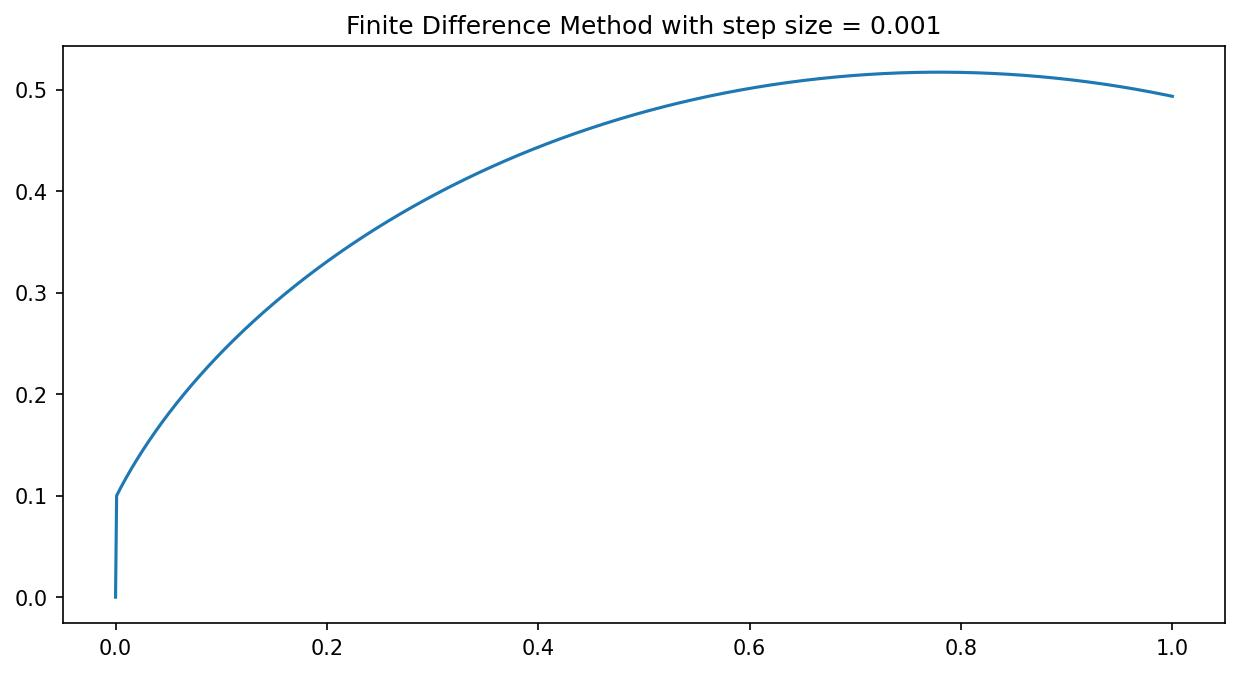
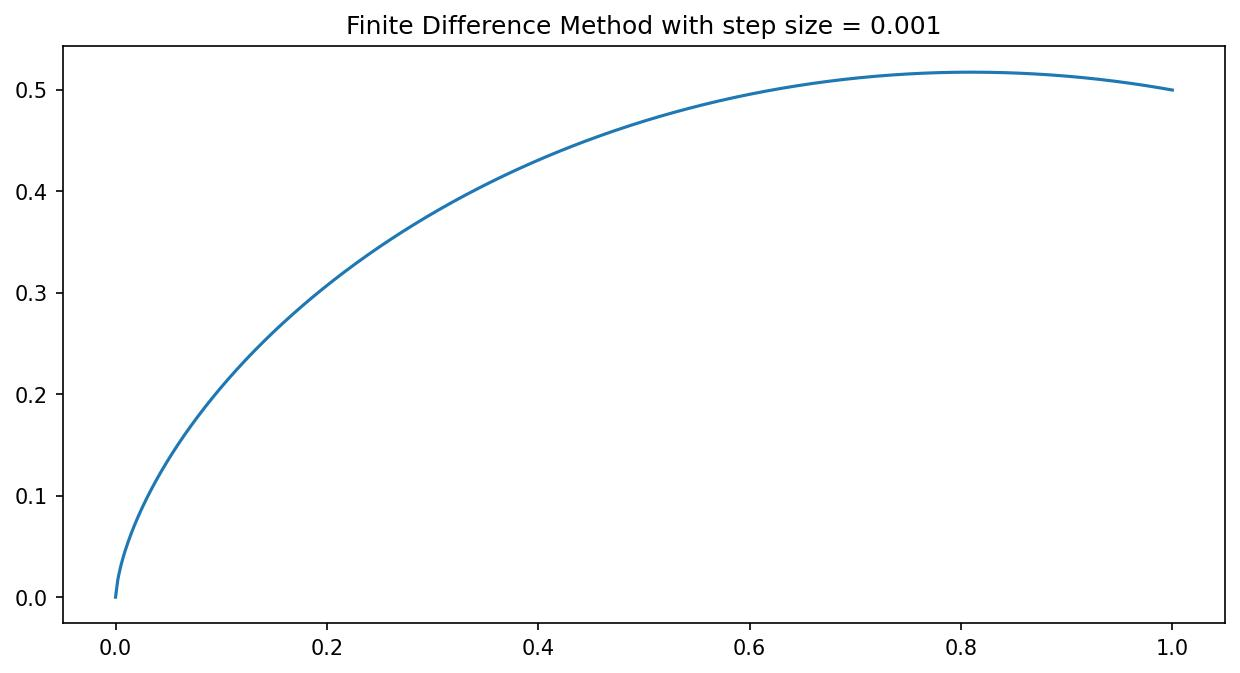
Changed the way I handled 0 derivative, got even better results

Changed region(s): [[0.0919, 0.0936, 0.95, 0.8737]]

diff --git a/Finite Differences/finite_difference.py b/Finite Differences/finite_difference.py
@@ -30,13 +30,13 @@ flag = 1
 lasty = 0
 C = 0.5171999214217067
 
-def derivative(x, y = 0):
+def derivative(x, y = 0, step_size = 0):
     global flag
     global C
     if y > 0:
         return flag * math.sqrt((C -y)/y)
     else:
-        return 100 
+        return ((1.5 * step_size * C) ** (2/3) / step_size)
     
 def finite_difference(d, yintercept, window_begin = 0, window_end = 1, step_size = 0.00001):
     f = Function(window_begin, window_end, step_size)
@@ -64,7 +64,7 @@ def finite_difference(d, yintercept, window_begin = 0, window_end = 1, step_size
 
 def compute_loss(step_size):
     loss = 0
-    w = finite_difference(lambda x, y: derivative(x, y), 0, step_size = step_size)
+    w = finite_difference(lambda x, y: derivative(x, y, step_size), 0, step_size = step_size)
     actual_func = pickle.load(open('./actual_function (x, y) pairs.pkl', 'rb'))
     xy_pairs = []
     for i in range(0, 1001):
@@ -75,6 +75,6 @@ def compute_loss(step_size):
     return loss
 
 def plot_figure(step_size):
-    w = finite_difference(lambda x, y: derivative(x, y), 0, step_size = step_size)
+    w = finite_difference(lambda x, y: derivative(x, y, step_size), 0, step_size = step_size)
     w.plot(step_size = step_size, save = True)
-plot_figure(0.00001)
+print(plot_figure(0.00001))
